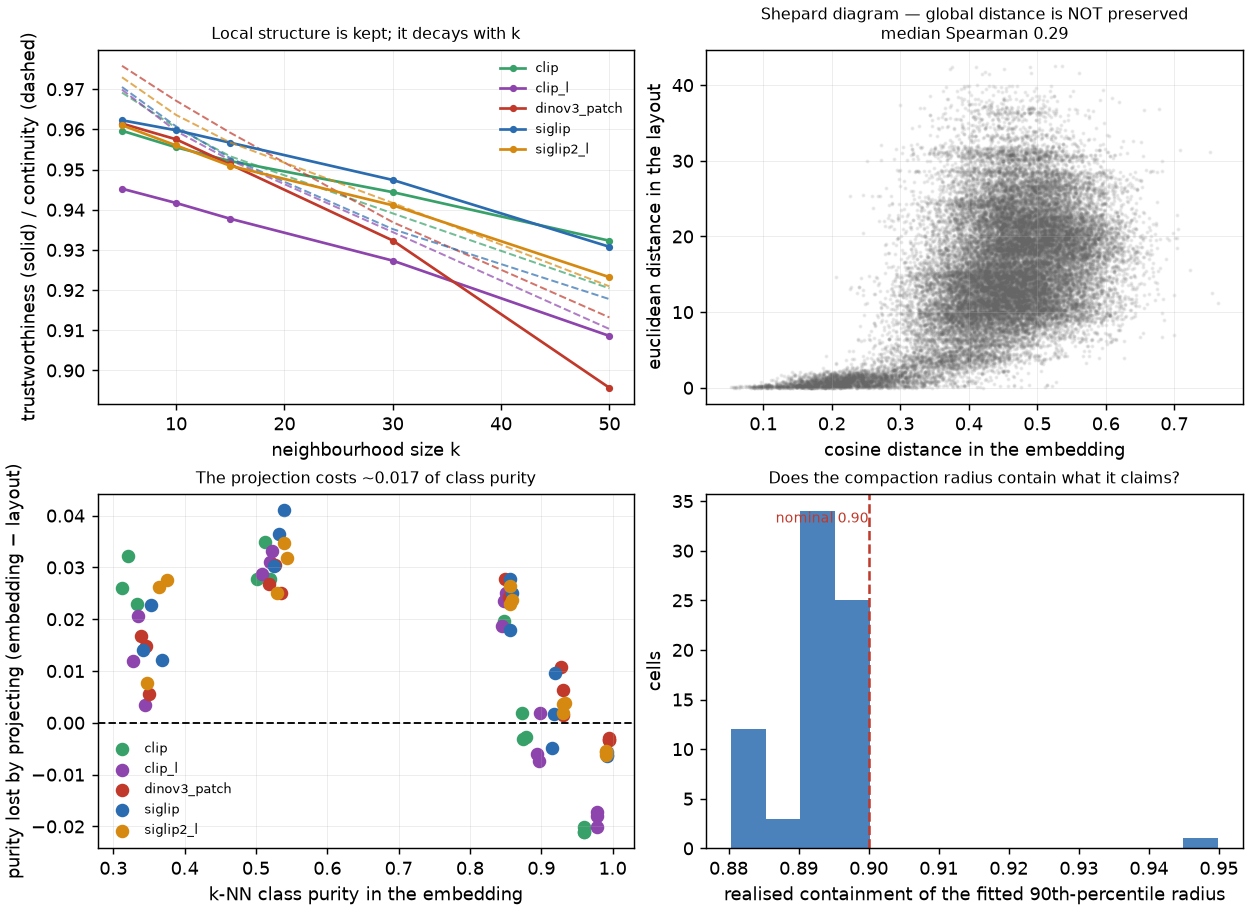
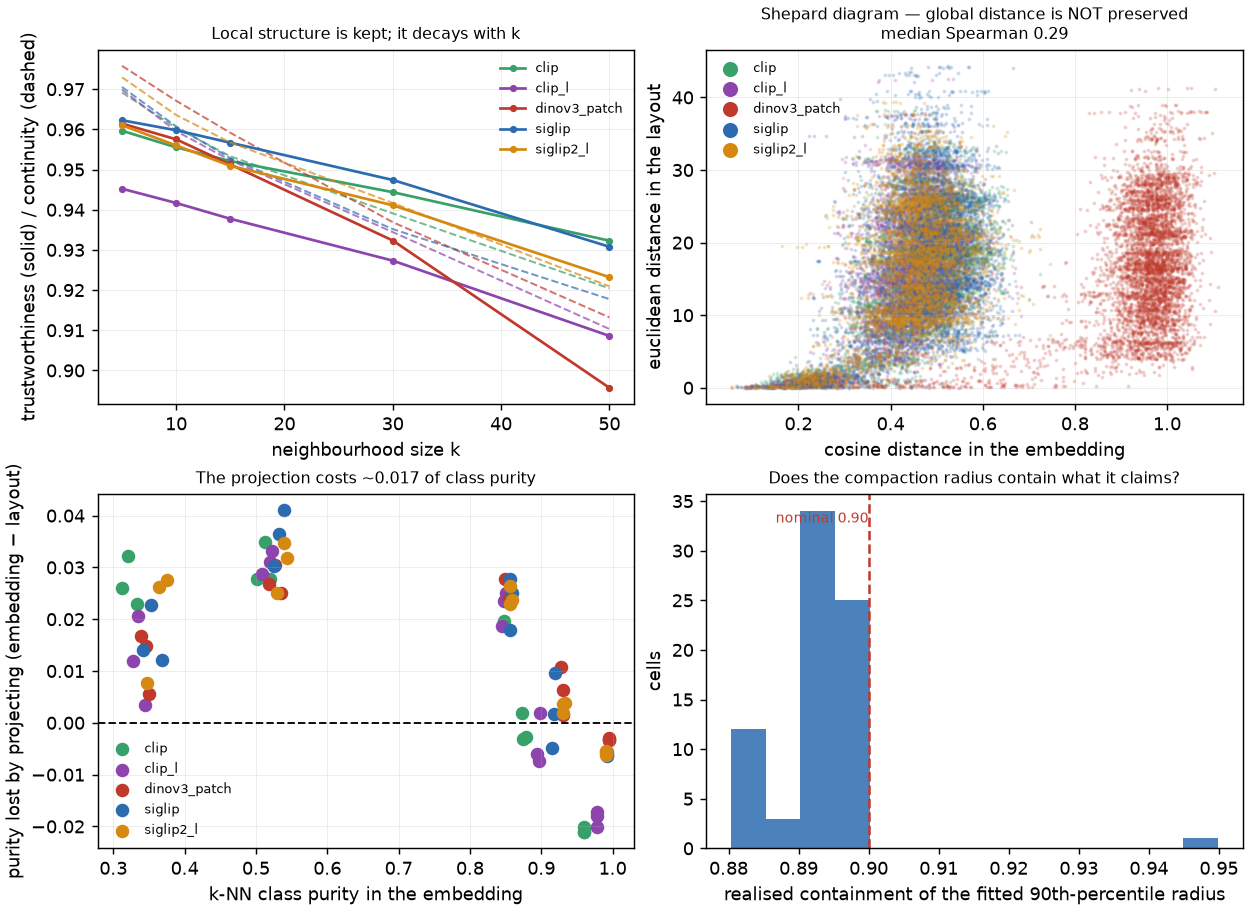
#3329: narrow the Optional in the r2 round-trip test, and two figure fixes
pyright caught what the targeted pytest run could not: `StepCoeffs.from_json`
is Optional-returning (it parses untrusted profile JSON), so chaining `.r2`
straight off it is a reportOptionalMemberAccess. Narrowed rather than cast.

Two figure fixes found by reading the rendered PNGs:

- the Shepard panel sampled the first six .npz files, which sorted order makes
  three seeds of two embedders - a monochrome pile that lost the panel's whole
  point. Now one file per embedder, and `dinov3_patch` separates visibly at
  cosine distance 0.8-1.1 against 0.2-0.7 for the other four. That is the same
  low-concentration geometry the r-bar table blames for its atlas
  miscalibration, arriving from a measurement with nothing to do with the atlas.
- the class-purity panel plotted layout-vs-embedding on a shared 0-1 scale,
  where a 0.017 effect puts every point on the diagonal. Plotted as the drop it
  also shows the drop going NEGATIVE above ~0.95 embedding purity - the layout
  is cleaner by class than the space it came from - which the report now says.

Refs #3329

Claude-Session: https://claude.ai/code/session_01R9nFHgJJCYGB7F5GNLyhvS

diff --git a/scripts/experiments/structure/figures_structure_3329.py b/scripts/experiments/structure/figures_structure_3329.py
@@ -183,14 +183,20 @@ def projection_panel(df: pd.DataFrame, proj: pd.DataFrame, results: Path, outdir
     ax.legend(fontsize=7, frameon=False)
 
     ax = axes[0][1]
-    f = sorted(Path(results).glob("struct_*.npz"))
+    # ONE file per embedder, not the first six: sorted order puts three seeds of
+    # one embedder first, so `[:6]` drew two embedders in a monochrome pile and
+    # lost the thing the panel is for - that the embedders occupy different
+    # cosine-distance ranges.
+    per_emb: dict[str, Path] = {}
+    for cand in sorted(Path(results).glob("struct_*.npz")):
+        emb = cand.stem.replace("struct_", "").split("__")[1]
+        per_emb.setdefault(emb, cand)
     drawn = False
-    for p in f[:6]:
-        z = np.load(p)
+    for emb, cand in sorted(per_emb.items()):
+        z = np.load(cand)
         if "shepard_hi" not in z.files:
             continue
-        emb = p.stem.replace("struct_", "").split("__")[-1]
-        ax.scatter(z["shepard_hi"], z["shepard_lo"], s=1.5, alpha=0.10, color=EMB_COLOURS.get(emb, "#666"))
+        ax.scatter(z["shepard_hi"], z["shepard_lo"], s=1.5, alpha=0.16, color=EMB_COLOURS.get(emb, "#666"), label=emb)
         drawn = True
     if drawn:
         ax.set_xlabel("cosine distance in the embedding")
@@ -198,6 +204,9 @@ def projection_panel(df: pd.DataFrame, proj: pd.DataFrame, results: Path, outdir
         med = proj["shepard"].median()
         ax.set_title(f"Shepard diagram — global distance is NOT preserved\nmedian Spearman {med:.2f}", fontsize=9)
         ax.grid(alpha=0.25, lw=0.5)
+        leg = ax.legend(fontsize=7, frameon=False, markerscale=6)
+        for handle in leg.legend_handles:
+            handle.set_alpha(1.0)
 
     ax = axes[1][0]
     # Plotted as the DROP, not as layout-vs-embedding: purity runs 0.28-1.0 and

diff --git a/tests_lib/core/test_timing_recorder_and_fit.py b/tests_lib/core/test_timing_recorder_and_fit.py
@@ -332,8 +332,14 @@ class TestFitting:
     def test_r2_survives_a_json_round_trip(self):
         coeffs = StepCoeffs(a=1.0, b=2.0, r2=0.9876)
         assert coeffs.to_json()["r2"] == pytest.approx(0.9876)
-        assert StepCoeffs.from_json(coeffs.to_json()).r2 == pytest.approx(0.9876)
-        assert math.isnan(StepCoeffs.from_json({"a": 1.0}).r2)
+        # `from_json` is Optional-returning (it parses untrusted profile JSON),
+        # so narrow before reading the field rather than chaining through it.
+        parsed = StepCoeffs.from_json(coeffs.to_json())
+        assert parsed is not None
+        assert parsed.r2 == pytest.approx(0.9876)
+        bare = StepCoeffs.from_json({"a": 1.0})
+        assert bare is not None
+        assert math.isnan(bare.r2)
 
     def test_byte_scaled_step_fits_a_per_mb_rate(self):
         samples = [

diff --git a/docs/experiments/2026-08-30-fit-quality-3329/REPORT.md b/docs/experiments/2026-08-30-fit-quality-3329/REPORT.md
@@ -579,7 +579,18 @@ that concrete: one embedding distance of 0.5 maps to laid-out distances from
 
 **C2 confirmed and small.** Purity drops on 5 of 5 embedders, median **0.017**
 — from 0.85 in the embedding to 0.83 in the layout. Real, consistent, and not
-worth acting on.
+worth acting on. It is not uniform, though: on the cells whose embedding purity
+is already above ~0.95 the drop goes **negative**, i.e. the 2-D layout is
+*cleaner* by class than the space it came from. That is what a projection which
+throws away the dimensions the classes do not use looks like, and it is a
+reason not to read the median as a cost paid everywhere.
+
+**The Shepard panel also corroborates the atlas result independently.**
+`dinov3_patch` (red) occupies a completely different cosine-distance range from
+the other four — roughly 0.8–1.1 where they sit at 0.2–0.7. That is the same
+low-concentration geometry the r̄ table above blames for its atlas
+miscalibration, showing up in a measurement that has nothing to do with the
+atlas.
 
 **C3 confirmed, and it is the good news of the inventory.** The
 90th-percentile core radius realises **0.894** containment against a nominal
